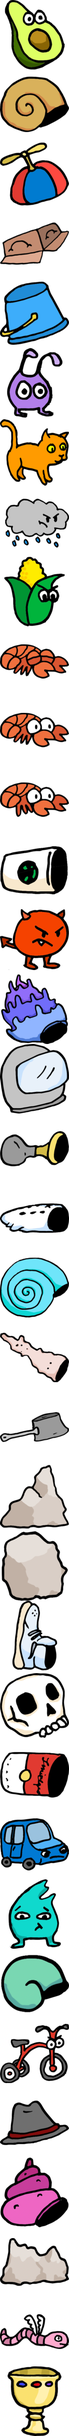
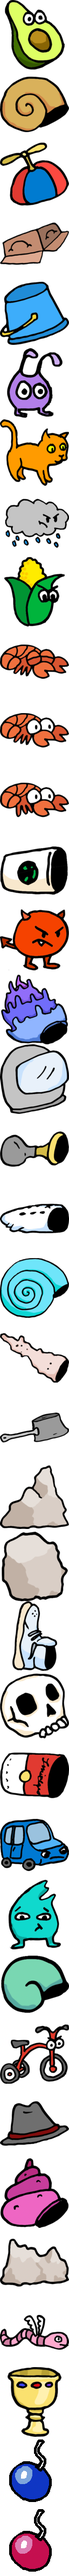
Make blasts possible only when you have a bomb.

diff --git a/defs/soul-defs.ts b/defs/soul-defs.ts
@@ -1,7 +1,7 @@
 import { getCanMoveHereFn } from './can-move-fns';
 import { randomMove } from './moves';
 import { spriteSize } from '../sizes';
-import { SoulDef, CommandDef } from '../types';
+import { Soul, SoulDef, CommandDef } from '../types';
 import { cmdDefsById } from '../flows/commands/commands';
 
 // New entry macro: @e
@@ -496,6 +496,34 @@ var defList: Array<SoulDef> = [
     allowedGrids: ['grid-figures'],
     hitDice: '1d8',
     itemRole: { itemPositioningStyle: 'shell' }
+  },
+  {
+    type: 'blueBomb',
+    categories: ['item'],
+    sprite: {
+      col: 0,
+      row: 35,
+      width: spriteSize,
+      height: spriteSize,
+      hitRadius: spriteSize * 0.75
+    },
+    allowedGrids: ['grid-figures'],
+    hitDice: '1d8',
+    itemRole: { itemPositioningStyle: 'shell' }
+  },
+  {
+    type: 'redBomb',
+    categories: ['item'],
+    sprite: {
+      col: 0,
+      row: 36,
+      width: spriteSize,
+      height: spriteSize,
+      hitRadius: spriteSize * 0.75
+    },
+    allowedGrids: ['grid-figures'],
+    hitDice: '1d8',
+    itemRole: { itemPositioningStyle: 'shell' }
   }
 ];
 
@@ -507,9 +535,16 @@ function addToDict(def: SoulDef) {
   soulDefs[def.type] = def;
 }
 
-function getPlayerInteractionsWithThing(thing): Array<CommandDef> {
+function getPlayerInteractionsWithThing(actor: Soul, thing): Array<CommandDef> {
   if (thing.type && thing.type === 'player') {
-    return [cmdDefsById.blast];
+    let interactions = [];
+    if (actor.items.some(isRedBomb)) {
+      interactions.push(cmdDefsById.smallBlast);
+    }
+    if (actor.items.some(isBlueBomb)) {
+      interactions.push(cmdDefsById.blast);
+    }
+    return interactions;
   }
   if (thing.categories) {
     if (thing.categories.includes('item')) {
@@ -522,7 +557,7 @@ function getPlayerInteractionsWithThing(thing): Array<CommandDef> {
   return [];
 }
 
-function getGuyInteractionsWithThing(thing): Array<CommandDef> {
+function getGuyInteractionsWithThing(actor: Soul, thing): Array<CommandDef> {
   if (thing.categories) {
     if (thing.categories.includes('item')) {
       return [cmdDefsById.take];
@@ -534,14 +569,34 @@ function getGuyInteractionsWithThing(thing): Array<CommandDef> {
   return [];
 }
 
-function getMeanGuyInteractionsWithThing(thing): Array<CommandDef> {
+function getMeanGuyInteractionsWithThing(
+  actor: Soul,
+  thing
+): Array<CommandDef> {
+  let interactions = [];
+  if (actor.items.some(isRedBomb)) {
+    interactions.push(cmdDefsById.smallBlast);
+  }
+  if (actor.items.some(isBlueBomb)) {
+    interactions.push(cmdDefsById.blast);
+  }
+
   if (thing.categories) {
     if (thing.categories.includes('item')) {
-      return [cmdDefsById.take];
+      interactions.push(cmdDefsById.take);
     }
     if (thing.categories.includes('guy')) {
-      return [cmdDefsById.bonk, cmdDefsById.take];
+      interactions.push(cmdDefsById.bonk);
+      interactions.push(cmdDefsById.take);
     }
   }
-  return [cmdDefsById.smallBlast];
+  return interactions;
+}
+
+function isRedBomb({ type }: Soul) {
+  return type === 'redBomb';
+}
+
+function isBlueBomb({ type }: Soul) {
+  return type === 'blueBomb';
 }

diff --git a/flows/update.ts b/flows/update.ts
@@ -203,7 +203,7 @@ function updateUsingClickedIntersection({
   var cmdChoices: Array<Command> = [];
   if (isActorIntersection || isAdjacent) {
     let cmdDefs: Array<CommandDef> = thingsHit
-      .map(actor.getInteractionsWithThing)
+      .map(curry(actor.getInteractionsWithThing)(actor))
       .flat();
     // TODO: Pick appropriate targets; using getLastClickedSoul
     // is the cause of the bug in which there's sometimes
@@ -314,6 +314,7 @@ function getColRowCommands(
   }
 
   var cmdDefs: Array<CommandDef> = soul.getInteractionsWithThing(
+    soul,
     thingsInColRow[0]
   );
   return cmdDefs.map(curry(instantiateCmdFromDef)(soul, thingsInColRow, null));

diff --git a/flows/commands/blast-command.ts b/flows/commands/blast-command.ts
@@ -29,6 +29,12 @@ export function blastCmd({ gameState, targetTree, cmd }: CmdParams) {
   function updateStatePostBlastAnimation(notifyAnimationDone: Done) {
     thingsToHit.forEach(damage);
     gameState.soulTracker.removeSouls(targetTree, thingsToHit.filter(isDead));
+
+    // TODO: Include actual bomb source in cmd.
+    var bombIndex = cmd.actor.items.findIndex(
+      item => item.type === 'redBomb' || item.type === 'blueBomb'
+    );
+    cmd.actor.items.splice(bombIndex, 1);
     callNextTick(notifyAnimationDone);
   }
 

diff --git a/types.ts b/types.ts
@@ -67,7 +67,7 @@ export interface SoulDef {
   categories: Array<string>;
   move?: MoveFn;
   canMoveHereFn?: CanMoveHereFn;
-  getInteractionsWithThing?: (any) => Array<CommandDef>;
+  getInteractionsWithThing?: (Soul, any) => Array<CommandDef>;
   sprite: Sprite;
   allowedGrids: Array<string>;
   startingItemIds?: Array<string>;

diff --git a/generators/generate-souls.ts b/generators/generate-souls.ts
@@ -52,7 +52,9 @@ var figureTypeTableDef = {
     [1, 'soupCan'],
     [1, 'tinyShell'],
     [1, 'trilby'],
-    [1, 'twistyShell']
+    [1, 'twistyShell'],
+    [20, 'redBomb'],
+    [1, 'blueBomb']
   ]
 };
 
